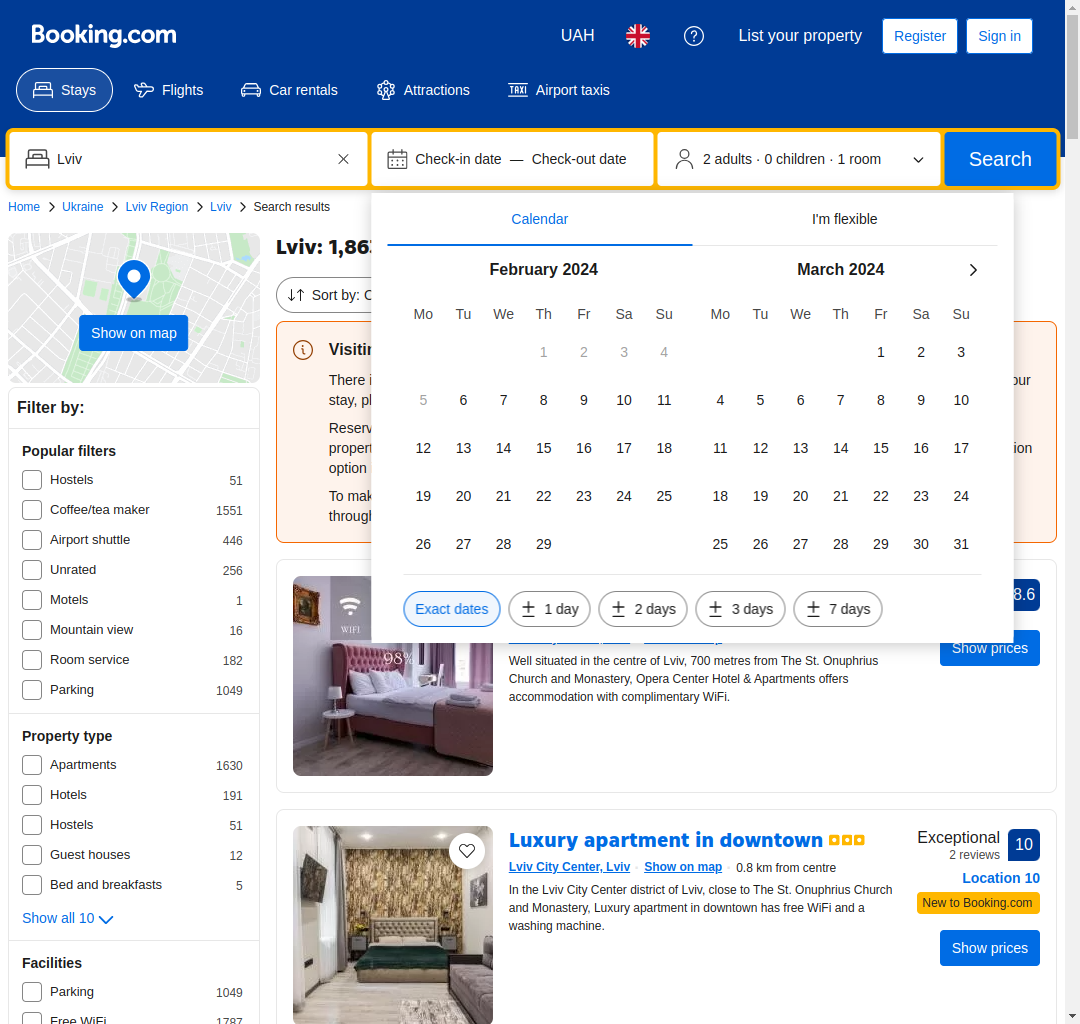
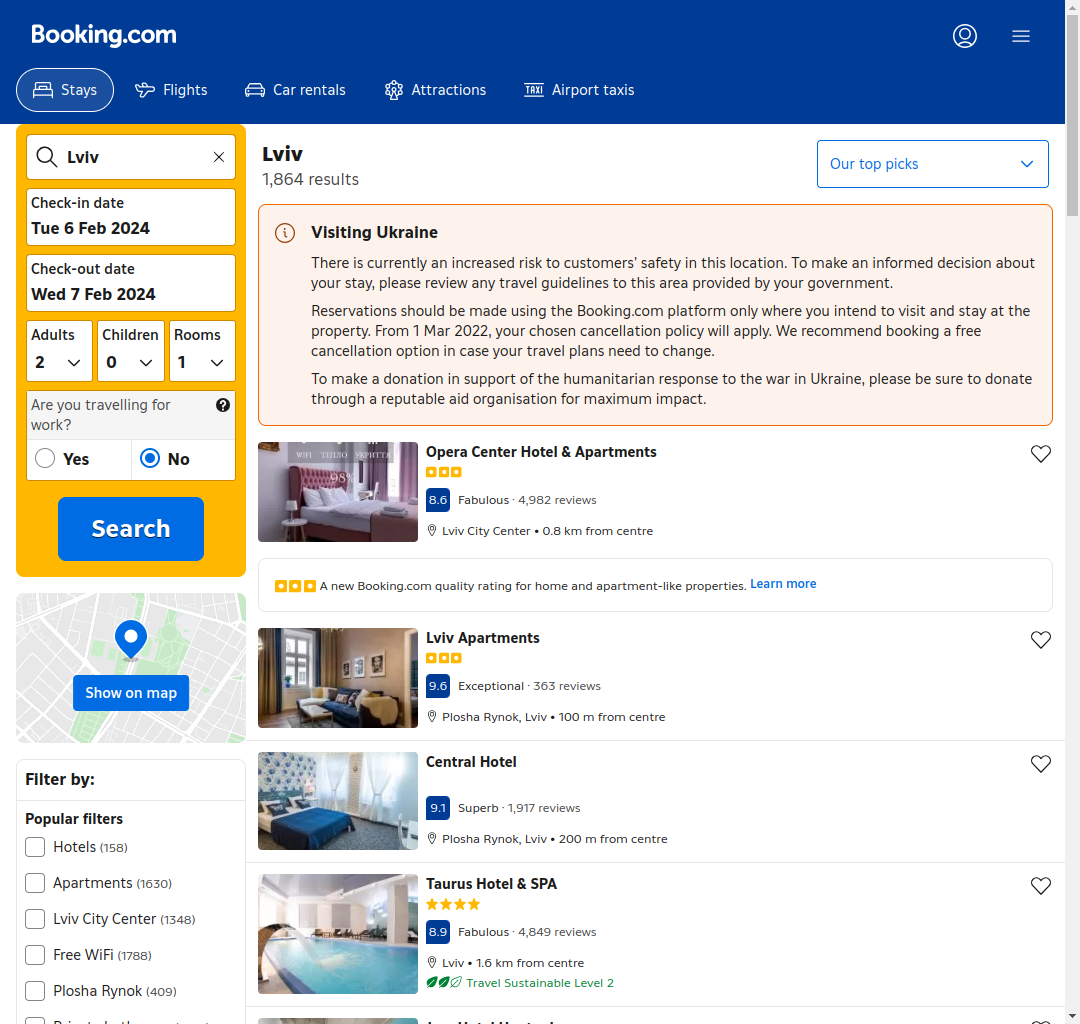
test2

diff --git a/app/api/ppt/route.ts b/app/api/ppt/route.ts
@@ -1,6 +1,8 @@
 import axios from 'axios';
 import { load } from 'cheerio';
 import puppeteer from 'puppeteer';
+import { KnownDevices } from 'puppeteer';
+const iPhone = KnownDevices['iPad landscape'];
 
 export async function POST(request: Request) {
 	const res: { place: string } = await request.json();
@@ -9,6 +11,7 @@ export async function POST(request: Request) {
 
 	const browser = await puppeteer.launch({ headless: false });
 	const page = await browser.newPage();
+	await page.emulate(iPhone);
 
 	// Navigate the page to a URL
 	await page.goto(url);
@@ -18,12 +21,13 @@ export async function POST(request: Request) {
 
 	await page.screenshot({ path: '1.png' });
 
-	const titleSelector = 'h1';
+	const titleSelector = '.f6431b446c';
 
 	await page.waitForSelector(titleSelector);
 
 	const amountText = await page.$eval(titleSelector, (el) => el.textContent);
 	console.log(amountText);
+	await browser.close();
 
 	return Response.json({ title: amountText });
 }
